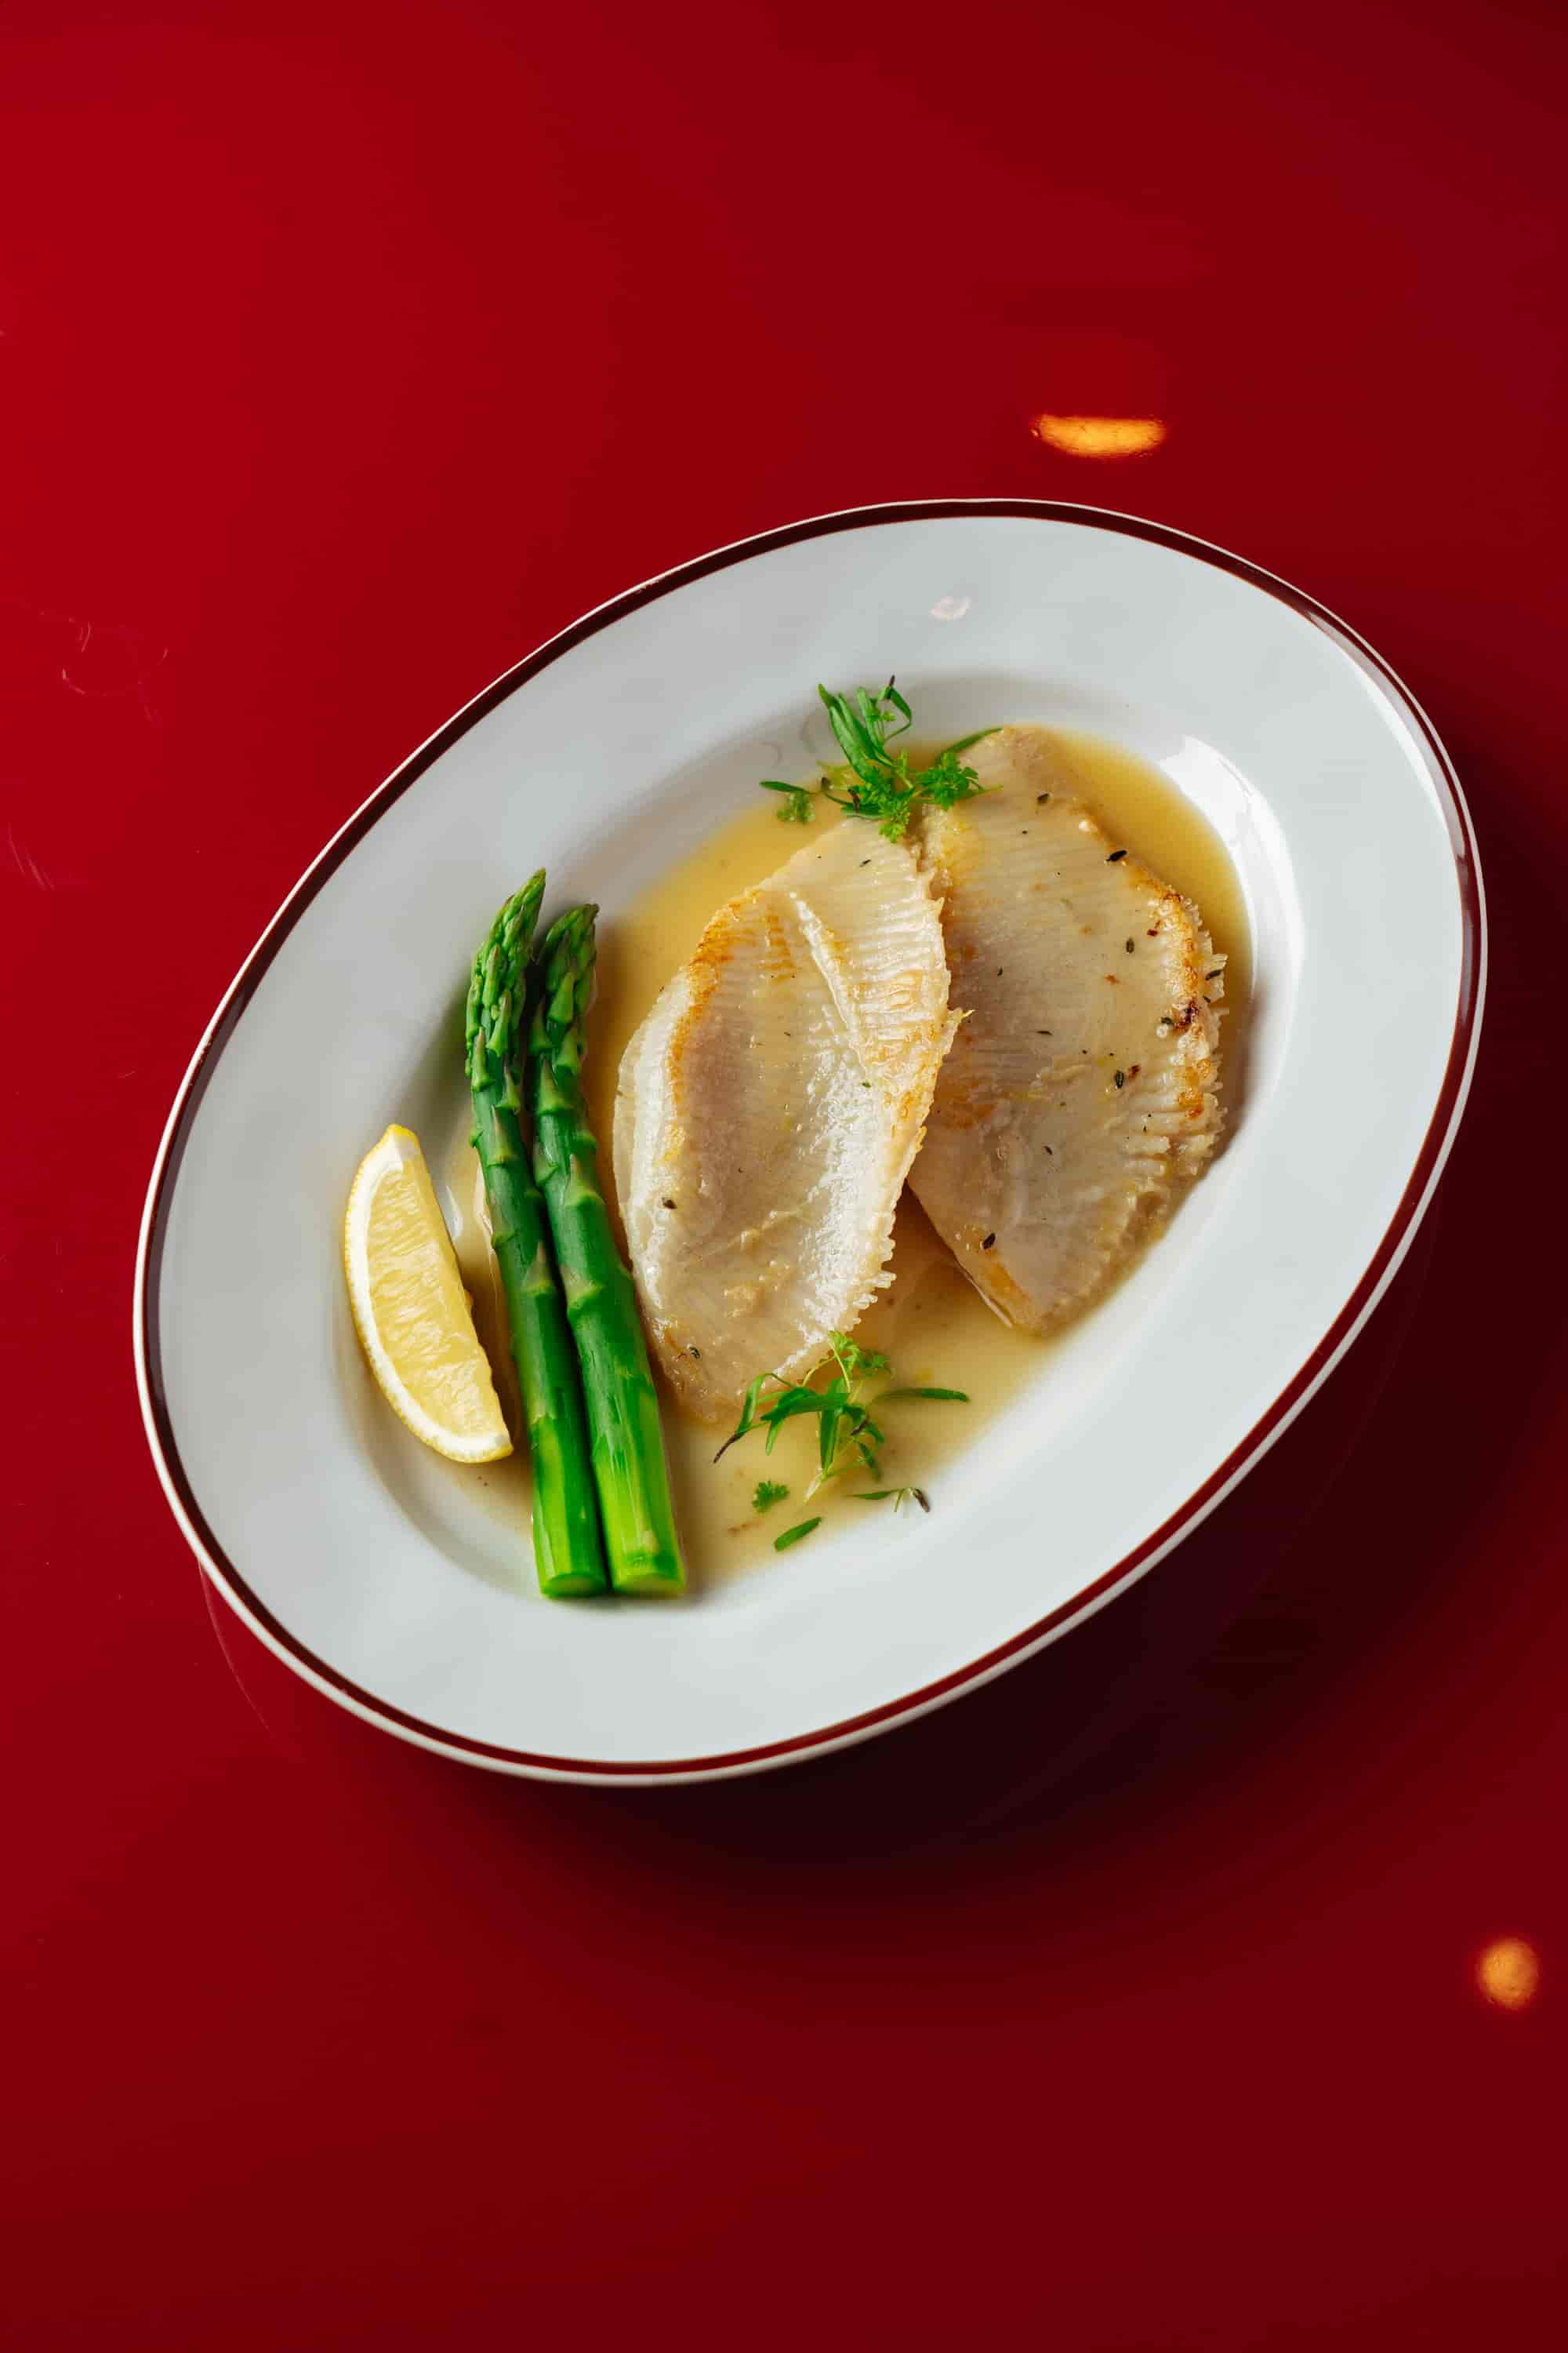
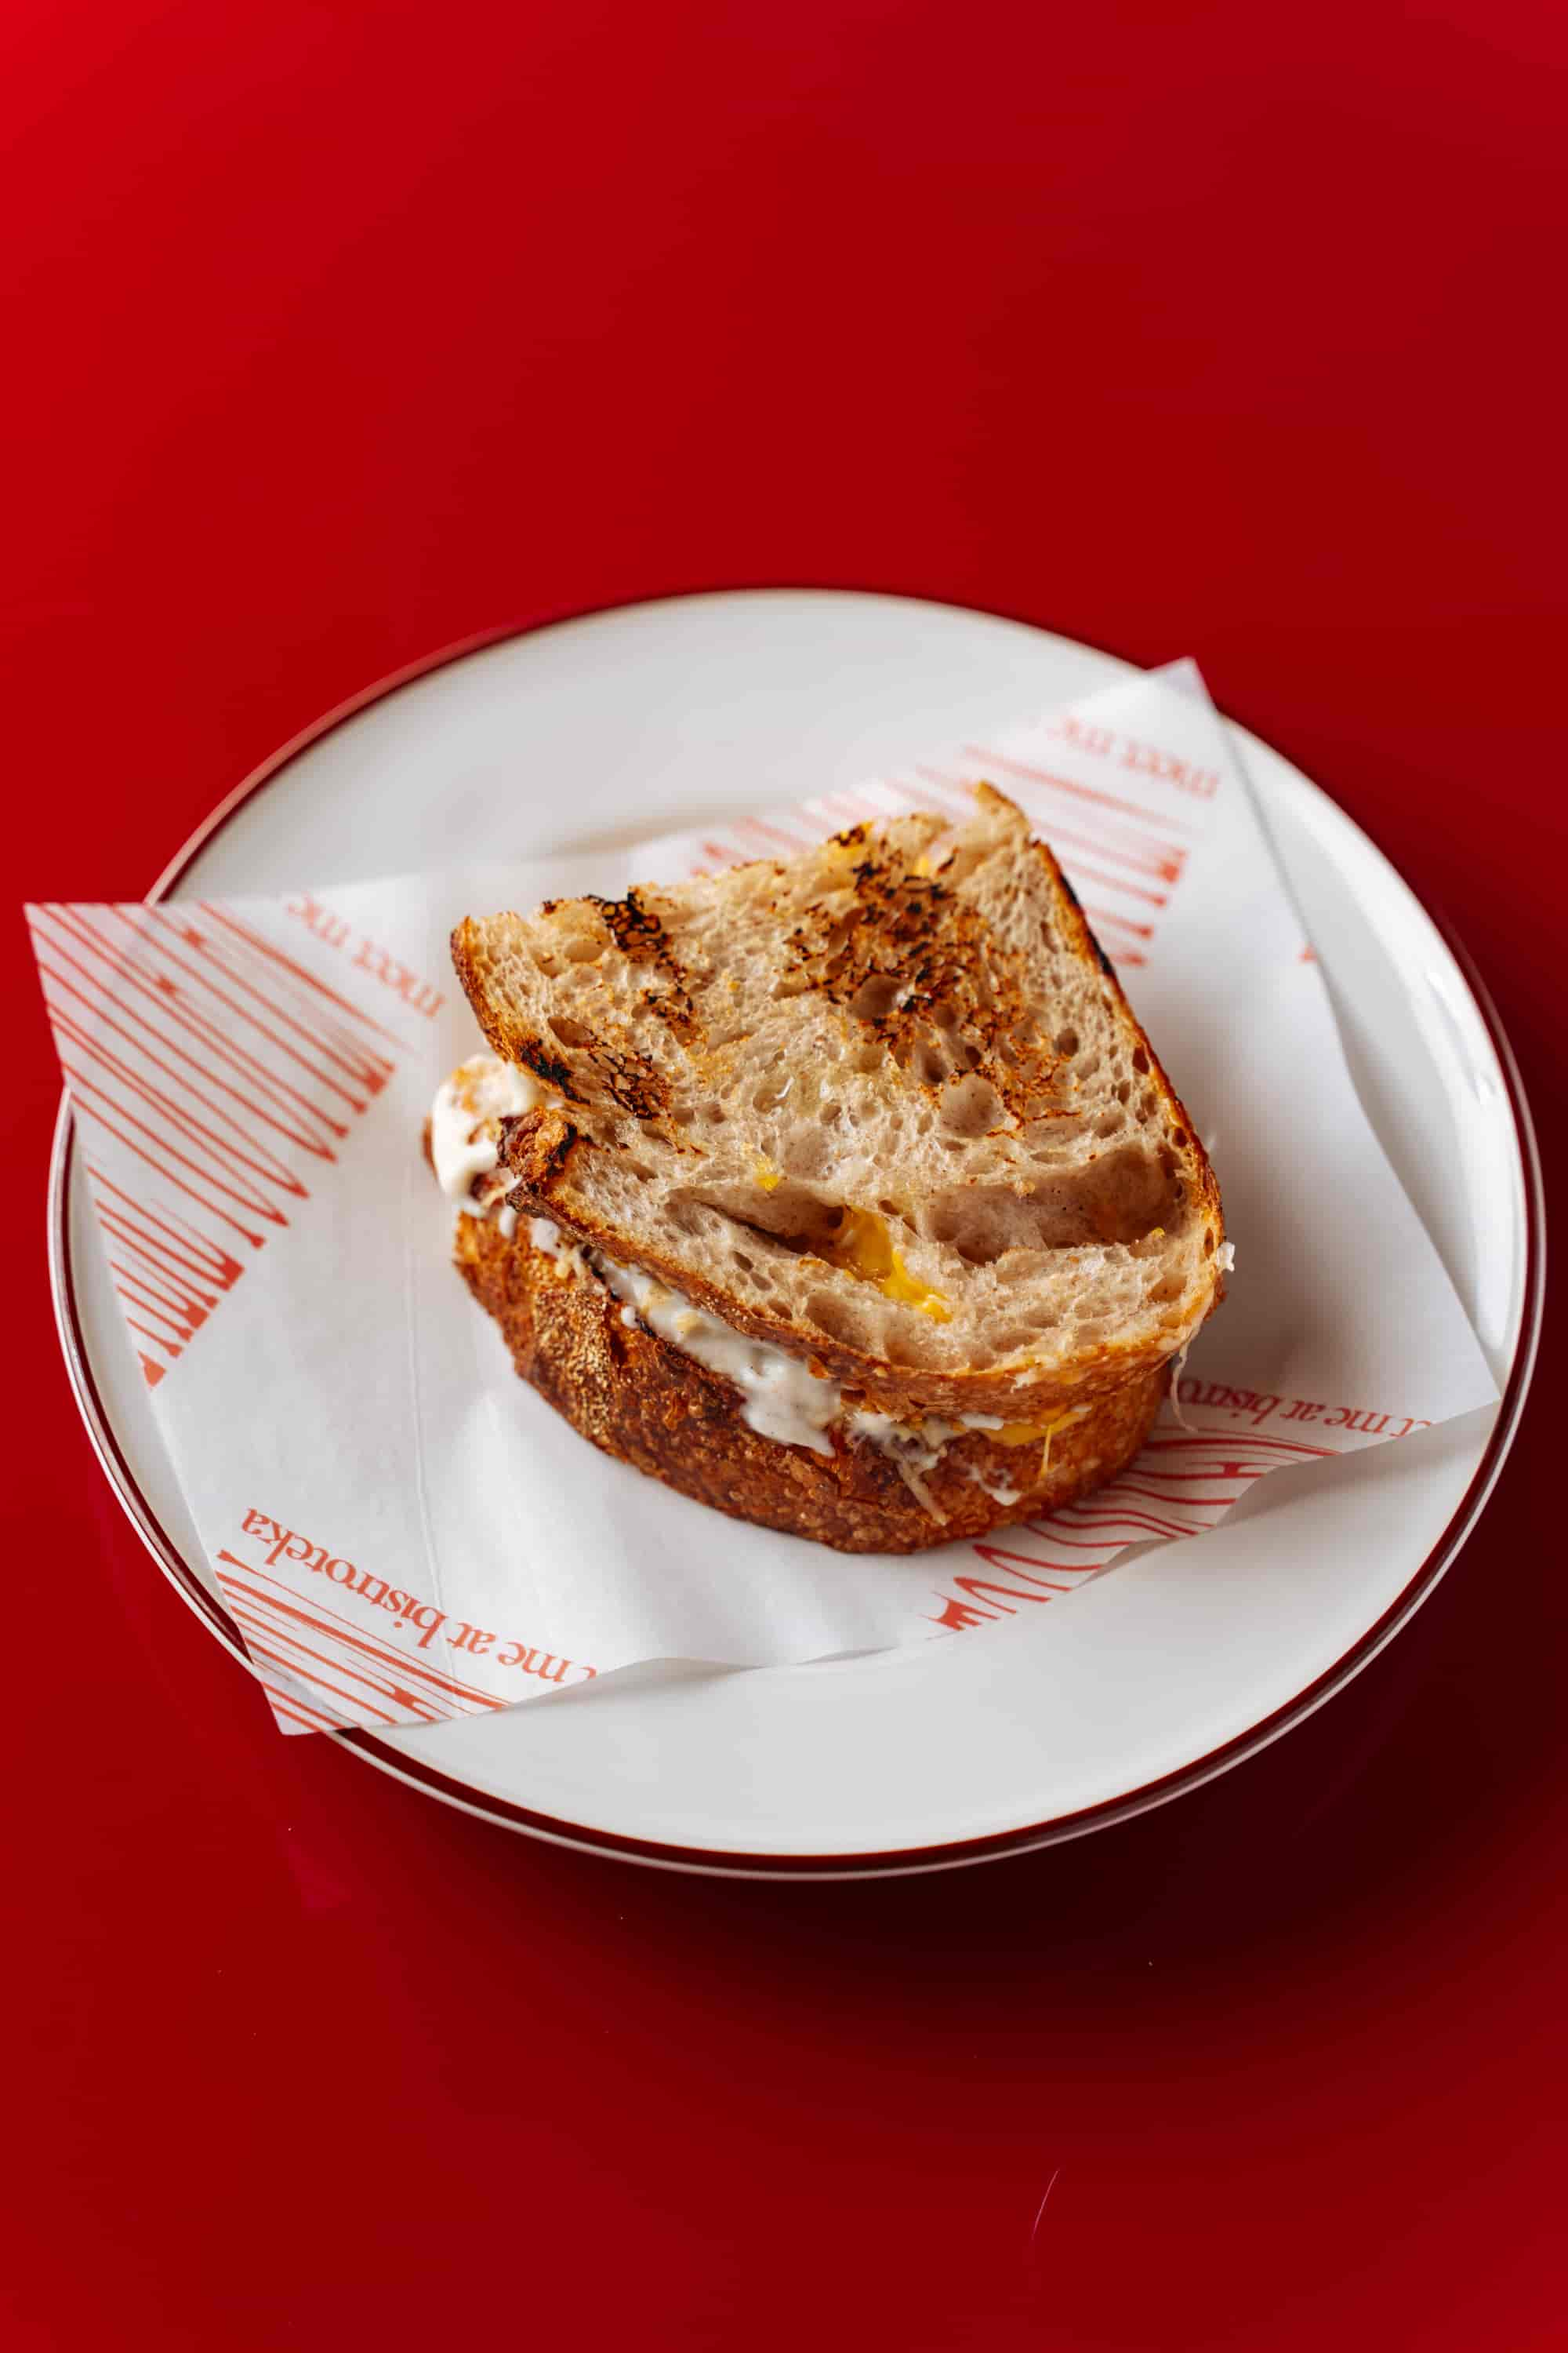
refactor(core): minors

diff --git a/index.html b/index.html
@@ -238,7 +238,7 @@
           <span class="font-serif text-2xl group-hover:text-bistro-red transition-colors">Меню блюд</span>
         </button>
         <button class="menu-btn group p-6 border border-bistro-green/30 hover:border-bistro-green rounded-lg transition-all" data-menu="cocktails">
-          <span class="font-serif text-2xl group-hover:text-bistro-red transition-colors">Коктейли</span>
+          <span class="font-serif text-2xl group-hover:text-bistro-red transition-colors">Напитки</span>
         </button>
         <button class="menu-btn group p-6 border border-bistro-green/30 hover:border-bistro-green rounded-lg transition-all" data-menu="alcohol">
           <span class="font-serif text-2xl group-hover:text-bistro-red transition-colors">Алкоголь</span>
@@ -489,10 +489,10 @@
         </div>
         <div class="reveal-hidden text-center" style="animation-delay: 0.2s;">
           <div class="aspect-square rounded-full overflow-hidden mb-2 sm:mb-4 border-2 border-bistro-green/30 mx-auto max-w-[110px] sm:max-w-xs">
-            <img src="src/assets/images/team/bistroteka-people-4.jpg" alt="Даниил Золотухин — управляющий Bistroteka" class="w-full h-full object-cover" >
+            <img src="src/assets/images/team/bistroteka-people-4.jpg" alt="Даниил Золотухин — управляющий партнер Bistroteka" class="w-full h-full object-cover" >
           </div>
           <h3 class="font-serif text-sm sm:text-xl mb-0.5 sm:mb-1">Даниил Золотухин</h3>
-          <p class="text-bistro-text/60 text-[10px] sm:text-sm leading-tight sm:leading-normal">Управляющий</p>
+          <p class="text-bistro-text/60 text-[10px] sm:text-sm leading-tight sm:leading-normal">Управляющий партнер</p>
         </div>
       </div>
       <!-- Row 2: 2 people centered -->
